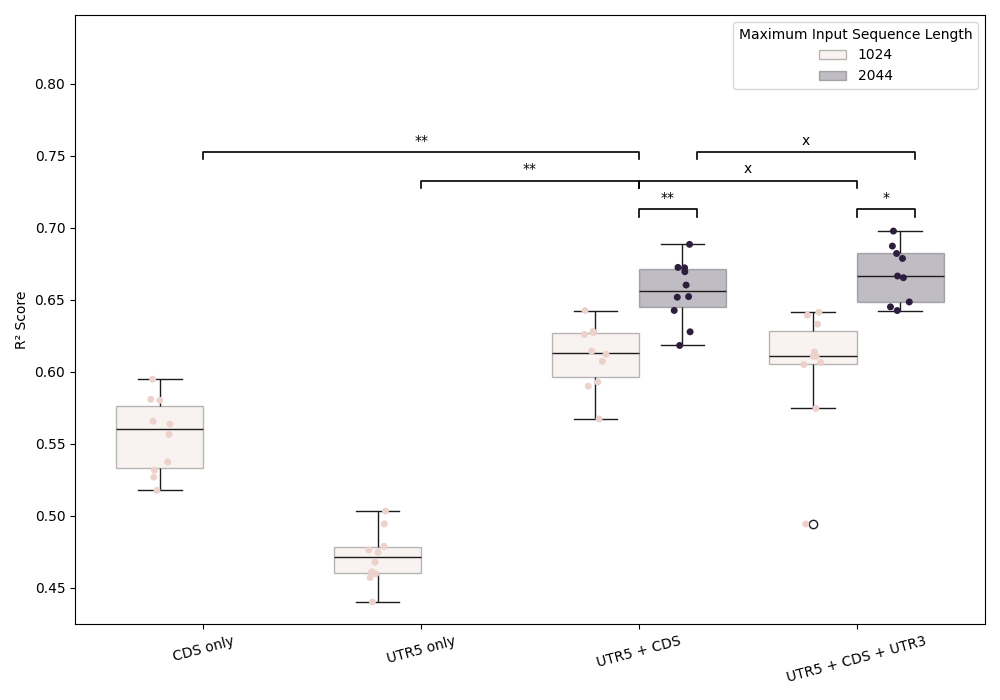
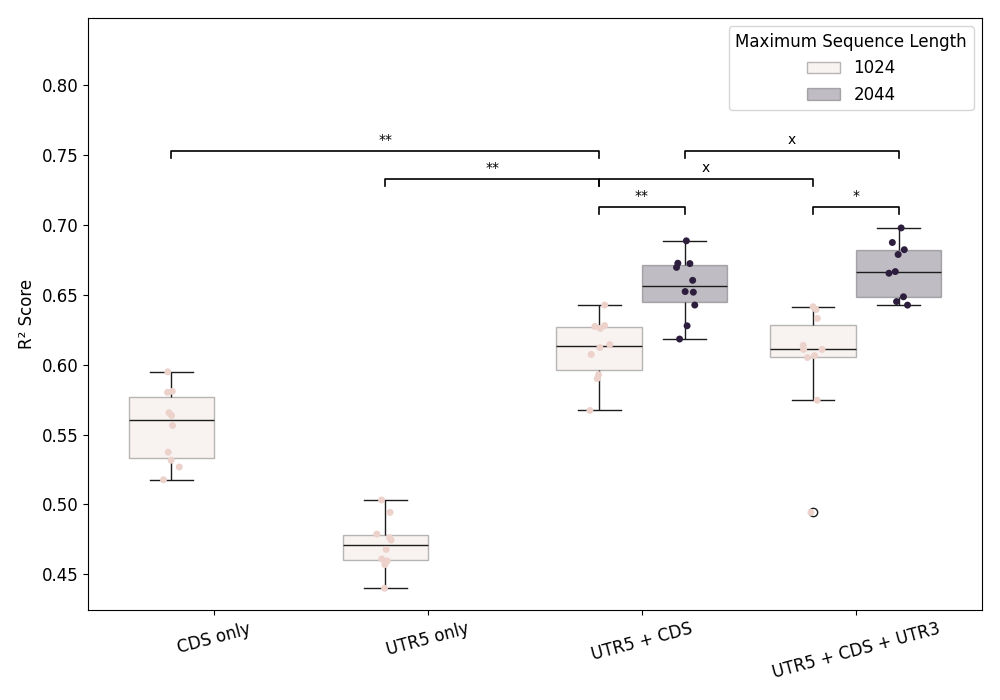
boxplot formatting

diff --git a/boxplot.py b/boxplot.py
@@ -4,7 +4,7 @@ import pandas as pd
 import seaborn as sns
 from scipy import stats
 
-
+plt.rcParams.update({'font.size': 12})
 paths = ["/scratch/izar/gabboud/mRNABERT/outputs/cv_cds_only_1024",
          "/scratch/izar/gabboud/mRNABERT/outputs/cv_utr5_only_1024",
          "/scratch/izar/gabboud/mRNABERT/outputs/cv_utr5_cds_1024",
@@ -28,23 +28,22 @@ max_lengths = [1024,
                2044,
                2044]
 
-order = ["CDS only", "UTR5 only", "UTR5 + CDS", "UTR5 + CDS + UTR3",
-         "600nt centered on start codon"]
-hue_order = [400, 1024, 2044]
+order = ["CDS only", "UTR5 only", "UTR5 + CDS", "UTR5 + CDS + UTR3"]
+hue_order = [1024, 2044]
 
 df_list = []
 for path, mode, max_length in zip(paths, modes, max_lengths):
     df = pd.read_csv(f"{path}/cv_results.csv")
     df["mode"] = mode
-    df["Maximum Input Sequence Length"] = max_length
+    df["Maximum Sequence Length"] = max_length
     df_list.append(df)
 
 df = pd.concat(df_list, ignore_index=True)
 
 plt.figure(figsize=(10, 7))
-ax = sns.boxplot(x="mode", y="eval_r2_mean_TE", hue="Maximum Input Sequence Length",
+ax = sns.boxplot(x="mode", y="eval_r2_mean_TE", hue="Maximum Sequence Length",
                  data=df, order=order, hue_order=hue_order, boxprops=dict(alpha=.3))
-sns.stripplot(x="mode", y="eval_r2_mean_TE", hue="Maximum Input Sequence Length",
+sns.stripplot(x="mode", y="eval_r2_mean_TE", hue="Maximum Sequence Length",
               data=df, order=order, hue_order=hue_order,
               dodge=True, jitter=True, alpha=1, legend=False)
 
@@ -100,7 +99,7 @@ def sig_label(vals1, vals2):
 
 def group_vals(mode, length):
     """R² values per test_fold, sorted so pairing is consistent."""
-    return (df[(df["mode"] == mode) & (df["Maximum Input Sequence Length"] == length)]
+    return (df[(df["mode"] == mode) & (df["Maximum Sequence Length"] == length)]
             .sort_values("test_fold")["eval_r2_mean_TE"]
             .values)
 